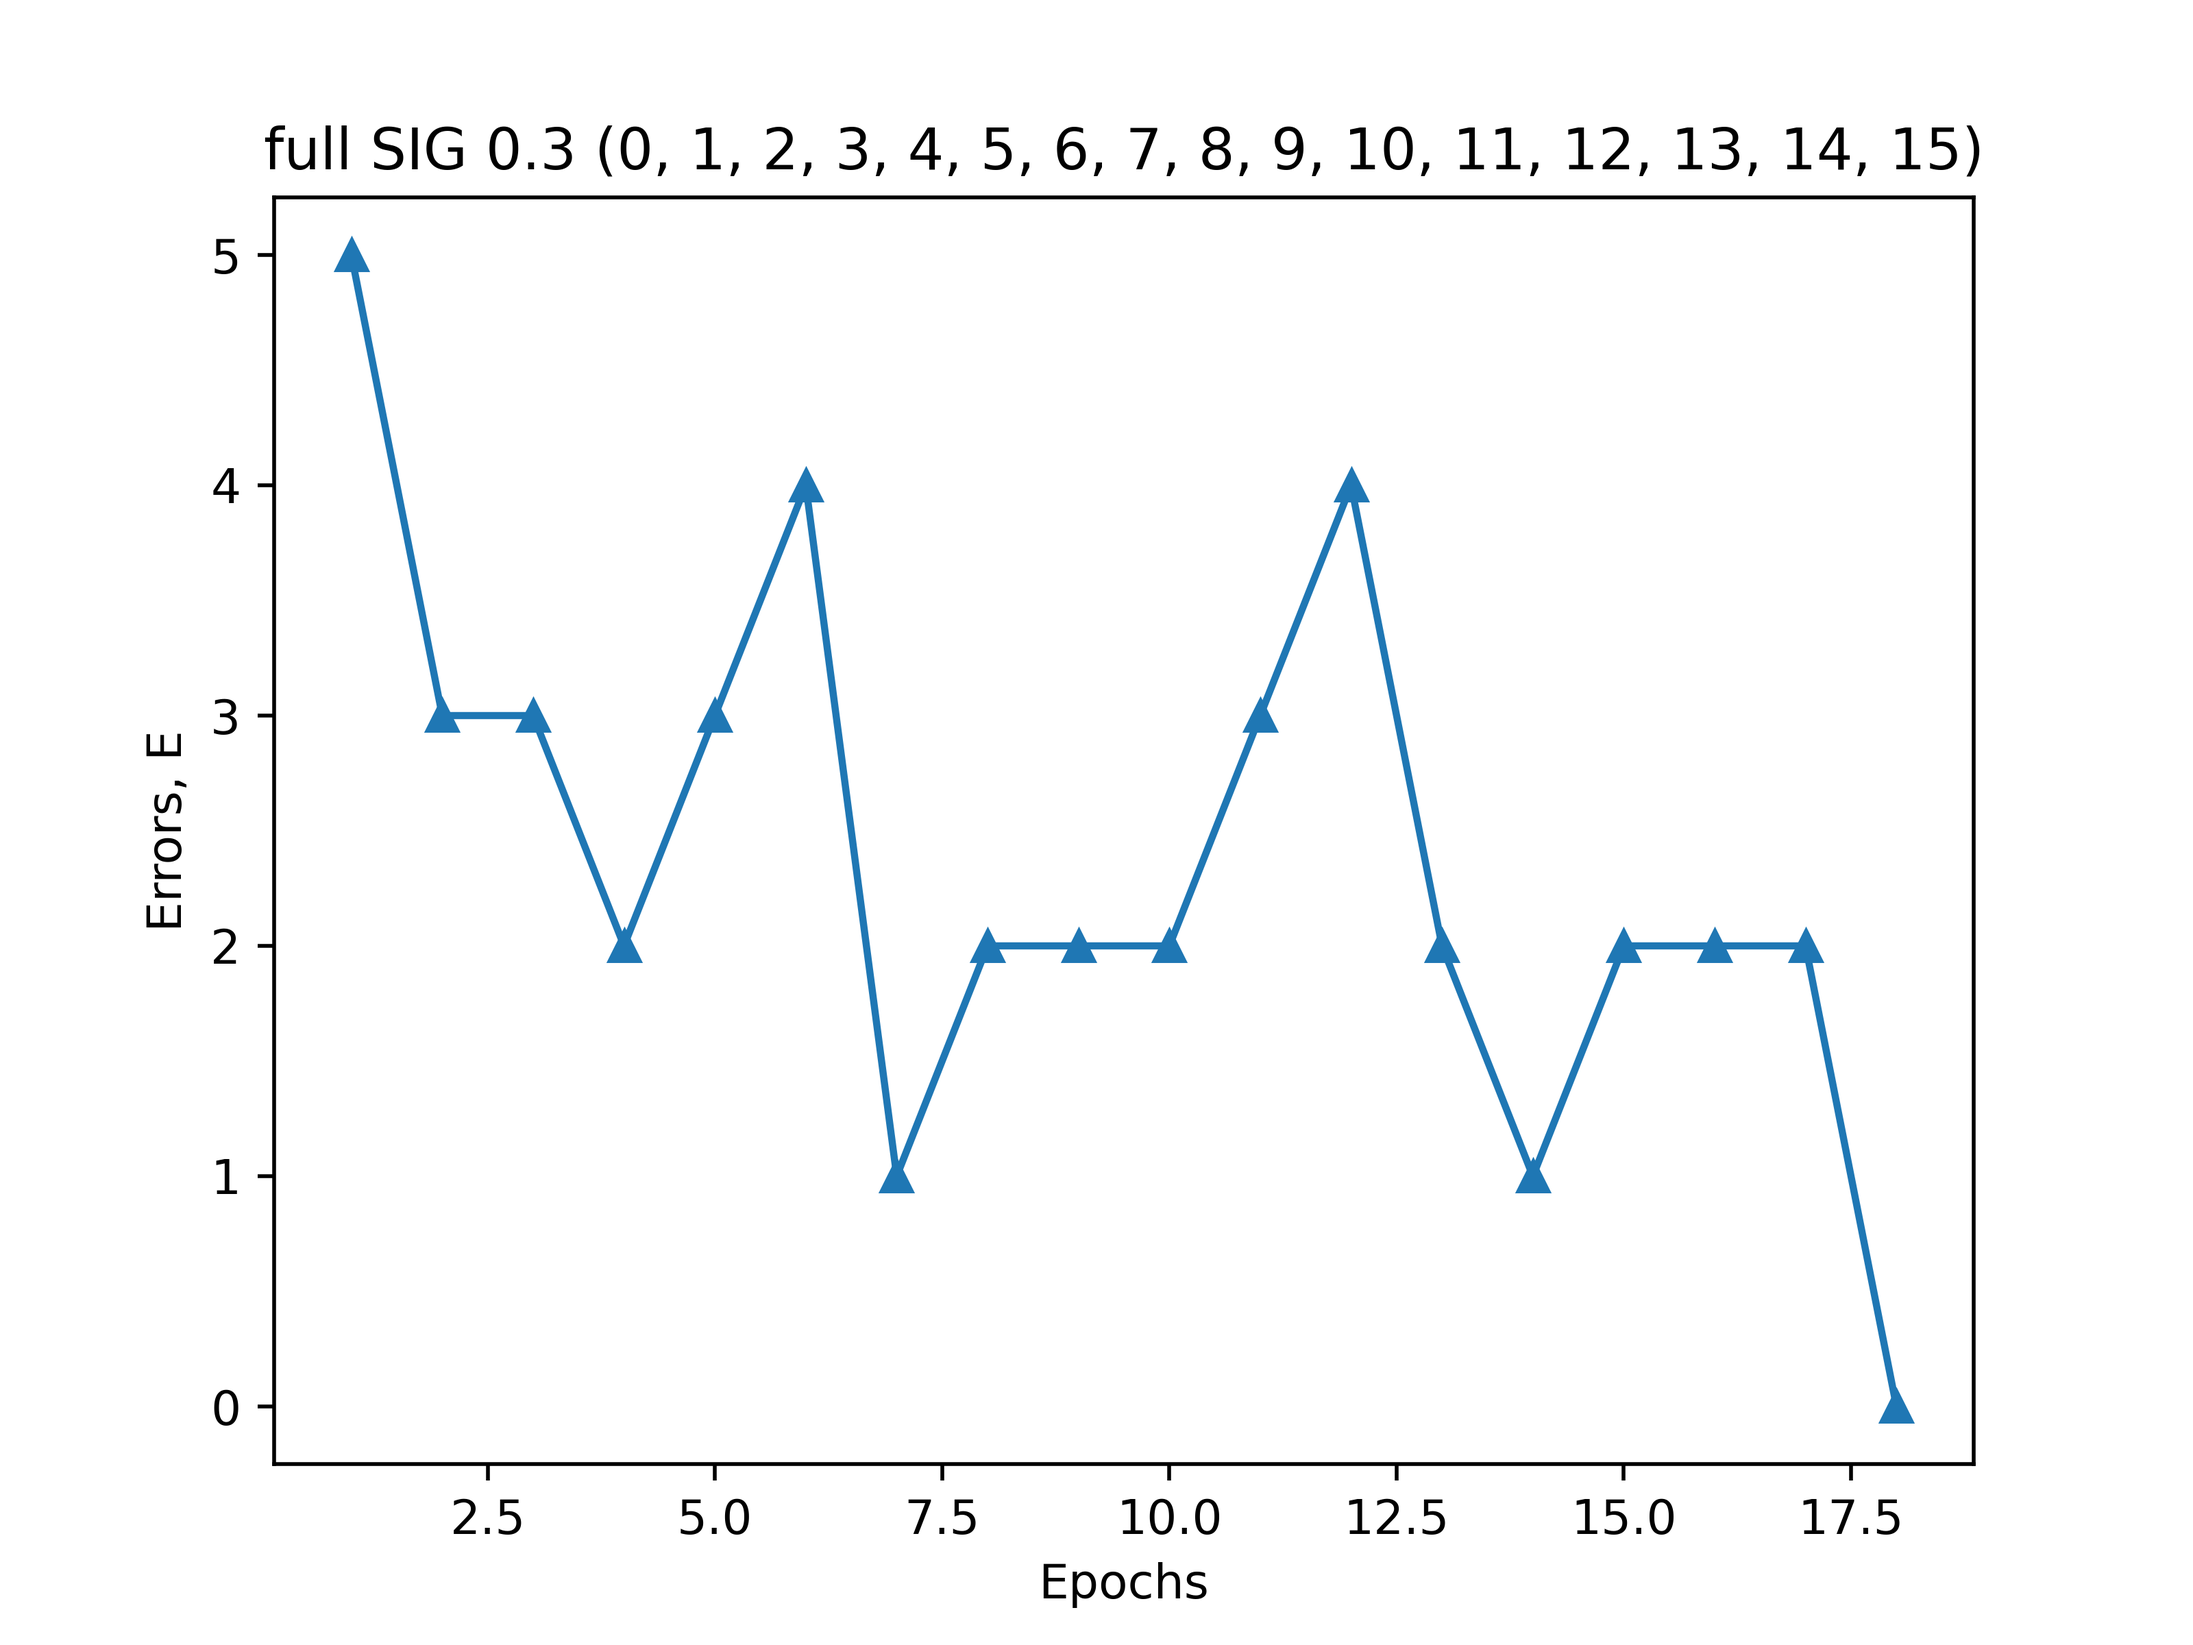
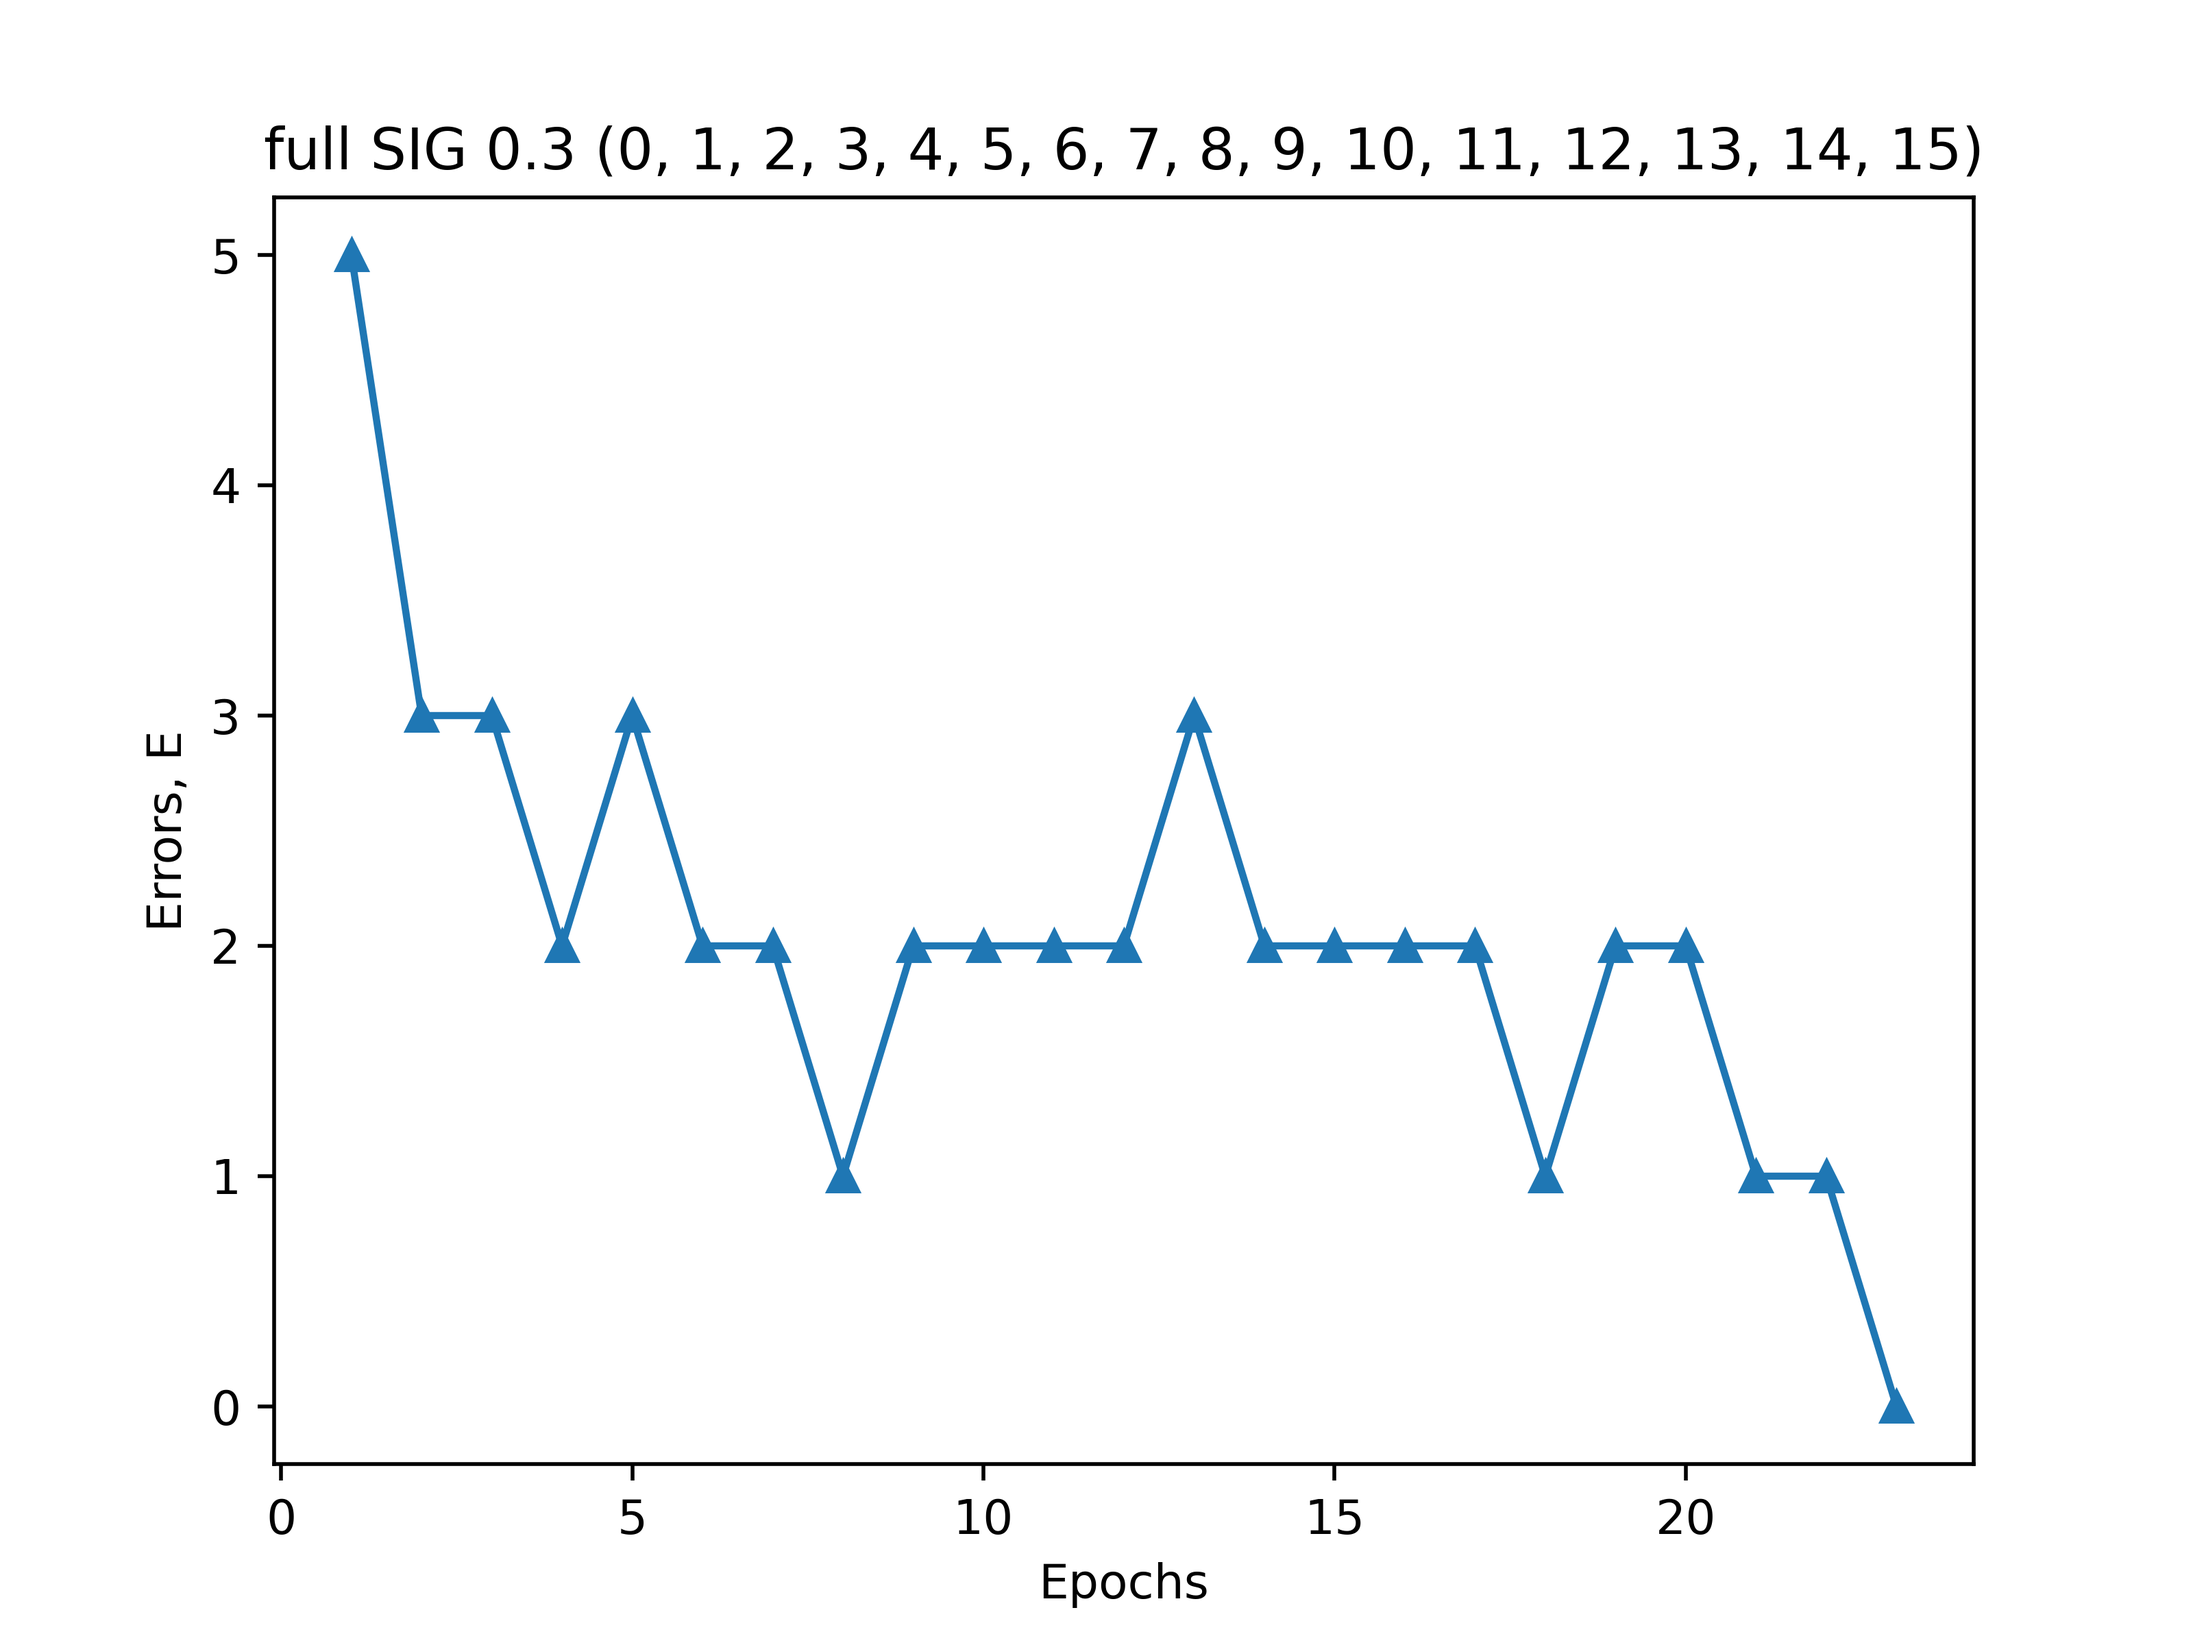
lab-1 finished

diff --git a/lab-1/single_layer_net.py b/lab-1/single_layer_net.py
@@ -9,12 +9,10 @@ class TF:
     def __init__(self,
                  f: Callable[[float], float],
                  f_der: Callable[[float], float],
-                 threshold_val: float,
-                 e=10):
+                 threshold_val: float):
         self.f = f
         self.f_der = f_der
         self.y_threshold_val = threshold_val
-        self.e = e
 
     def y(self, net: float) -> (int, float):
         out = self.f(net)
@@ -27,12 +25,12 @@ _th_f_der: Callable[[float], float] = lambda net: 1
 THRESHOLD_TF = TF(_th_f, _th_f_der, 0)
 
 _sig_f: Callable[[float], float] = lambda net: (math.tanh(net) + 1) / 2
-_sig_f_der: Callable[[float], float] = lambda net: _sig_f(net) * (1 - _sig_f(net))
+_sig_f_der: Callable[[float], float] = lambda net: 1 / (2 * (math.cosh(net) ** 2))
 SIGMOID_TF = TF(_sig_f, _sig_f_der, 0.5)
 
 TF_TYPES = {
-    0: ('TH', THRESHOLD_TF),
-    1: ('SIG', SIGMOID_TF),
+    'TH': THRESHOLD_TF,
+    'SIG': SIGMOID_TF,
 }
 
 
@@ -53,17 +51,11 @@ class Net:
 
     def _correct_weights(self, net: float, delta: int, xs: list[int]):
         for i, _ in enumerate(self.weights):
-            diff_norm_counter = delta * self.tf.f_der(net) * xs[i]
-            # print(f'\tw{i} = {round(self.weights[i] * self.norm, 3)}\tdelta = {diff_norm_counter}',
-            #       end=' -> ')
-            self.weights[i] += diff_norm_counter
-            # print(f'w{i} = {round(self.weights[i] * self.norm, 3)}')
+            self.weights[i] += delta * self.tf.f_der(net) * xs[i]
 
     def learn_epoch(self, xs_sets: list[list[int]]):
         for i, xs in enumerate(xs_sets):
             y, out, net = self.predict(xs[:-1])
-            # print(
-            #     f'n{i} - {xs[0]} [{"".join(map(str, xs[1:-1]))}] > {xs[-1]}\t-> y = {y}, out = {round(out, 3)}, net = {round(net, 3)}')
             self._correct_weights(net, xs[-1] - y, xs)
 
 
@@ -85,14 +77,9 @@ def learn(net: Net,
 
     j = 1
     while True:
-        # if j == 14:
-        #     print(f'EPOCH {j} BEG ------------------------------------------------------------')
         net.learn_epoch(learn_sets)
-        # if j == 14:
-        #     print(f'EPOCH {j} FIN ------------------------------------------------------------')
         answers, mistakes = test_sets(net, sets)
         epochs.append([j, list(map(lambda x: x * 0.3, net.weights.copy())), answers.copy(), mistakes])
-        # print(epochs[-1])
         if mistakes == 0:
             return True, epochs
         if epoch_limit is not None and j > epoch_limit:

diff --git a/lab-1/net.py b/lab-1/net.py
@@ -5,16 +5,16 @@ import matplotlib.pyplot as plt
 
 
 def main():
-    tf_type = int(sys.argv[1])  # types = {0, 1}
+    tf_type = sys.argv[1].upper()  # types = {'TH', 'SIG'}
     ep_limit = int(sys.argv[2])  # recommended > 30
     norm = float(sys.argv[3])  # 0 < norm <= 1
     name = sys.argv[4]  # any string for table name
     sets = set(map(int, sys.argv[5:]))  # specify the learning sets, all used if empty
 
-    if tf_type not in TF_TYPES:
+    tf = TF_TYPES.get(tf_type)
+    if tf is None:
         raise Exception('UNKNOWN TF TYPE')
-    tf_name = TF_TYPES.get(tf_type)[0]
-    print(F'TF TYPE: {tf_name}')
+    print(F'TF TYPE: {tf_type}')
 
     if not 0 < norm <= 1:
         raise Exception(F'BAD NORM GIVEN ({norm})')
@@ -24,29 +24,21 @@ def main():
         sets = set(range(len(INPUTS)))
     print(F'PROCESSING {sets} . . .')
 
-    net = Net(weights_num=ARG_NUM + 1,
-              norm=norm,
-              tf=TF_TYPES.get(tf_type)[1],
-              name=F'{name}')
-    status, logs = learn(net,
-                         INPUTS,
-                         sets,
-                         epoch_limit=ep_limit)
+    net = Net(weights_num=ARG_NUM + 1, norm=norm, tf=tf, name=F'{name}')
+    status, logs = learn(net, INPUTS, sets, epoch_limit=ep_limit)
+
     if not status:
         print(F'NET CANNOT BE LEARNED WITHIN {ep_limit} EPOCHS ON SETS {sets}')
         return
 
-    display_net(logs,
-                sets,
-                to_file=True,
-                file_name=f'{net.name}-{tf_name}')
+    display_net(logs, sets, to_file=True, file_name=F'{net.name}-{tf_type}')
 
-    plt.title(F'{name} {tf_name} {norm} {tuple(sorted(sets))}')
+    plt.title(F'{name} {tf_type} {norm} {tuple(sorted(sets))}')
     plt.xlabel('Epochs')
     plt.ylabel('Errors, E')
 
     plt.plot(list(range(1, len(logs[1:]) + 1)), [log[3] for log in logs[1:]], marker='^')
-    plt.gcf().savefig(F'{net.name}-{tf_name}.png', dpi=500)
+    plt.gcf().savefig(F'{net.name}-{tf_type}.png', dpi=500)
 
     print('FINISHED SUCCESSFULLY')
 

diff --git a/lab-1/check_len.py b/lab-1/check_len.py
@@ -20,41 +20,37 @@ def check_sets_of_length(set_len: int,
                                 INPUTS,
                                 set(s),
                                 epoch_limit=epoch_limit)
-        print(s, end=' ')
-        if status:
-            print(Fore.GREEN + F'PASSED' + Fore.RESET + F' {len(history)} EPS')
-        else:
-            print(Fore.RED + F'FAILED' + Fore.RESET)
-
+        print(s, ((Fore.GREEN + F'PASSED') if status else (Fore.RED + F'FAILED\n')) + Fore.RESET, end='')
         if not status:
             continue
+        print(F' {len(history)} EPS')
+
         found_sets.update({tuple(sorted(s)): len(history)})
     return found_sets
 
 
 def main():
-    tf_type = int(sys.argv[1])  # types = {0, 1}
-    ep_limit = sys.argv[2]  # recommended > 30
+    tf_type = sys.argv[1].upper()  # types = {'TH', 'SIG'}
+    ep_limit = int(sys.argv[2])  # recommended > 30
     norm = float(sys.argv[3])  # 0 < norm <= 1
-    set_len = sys.argv[4]  # 0 < set_len < len(INPUTS)
+    set_len = int(sys.argv[4])  # 0 < set_len < len(INPUTS)
 
-    if tf_type not in TF_TYPES:
+    tf = TF_TYPES.get(tf_type)
+    if tf is None:
         raise Exception('UNKNOWN TF TYPE')
-    print(F'TF TYPE: {TF_TYPES.get(tf_type)[0]}')
+    print(F'TF TYPE: {tf_type}')
 
     if not 0 < norm <= 1:
         raise Exception(F'BAD NORM GIVEN ({norm})')
     print(F'NORM: {norm}')
 
     print(F'CHECKING LEN-{set_len} SETS . . .')
-    sets = check_sets_of_length(int(set_len),
-                                int(ep_limit),
-                                float(norm),
-                                TF_TYPES.get(tf_type)[1])
+    sets = check_sets_of_length(set_len, ep_limit, norm, tf)
 
     if not sets:
         print('NO SETS FOUND')
         return
+
     print(f'FOUND SETS: {len(sets)}')
     print('\n'.join(map(str, sets.items())))
 
